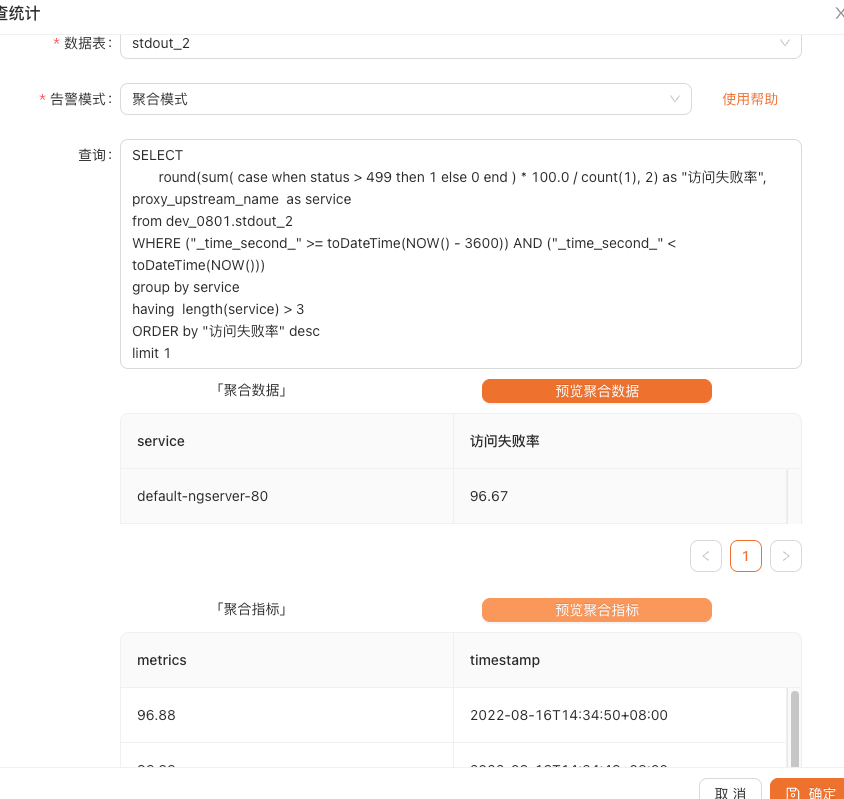
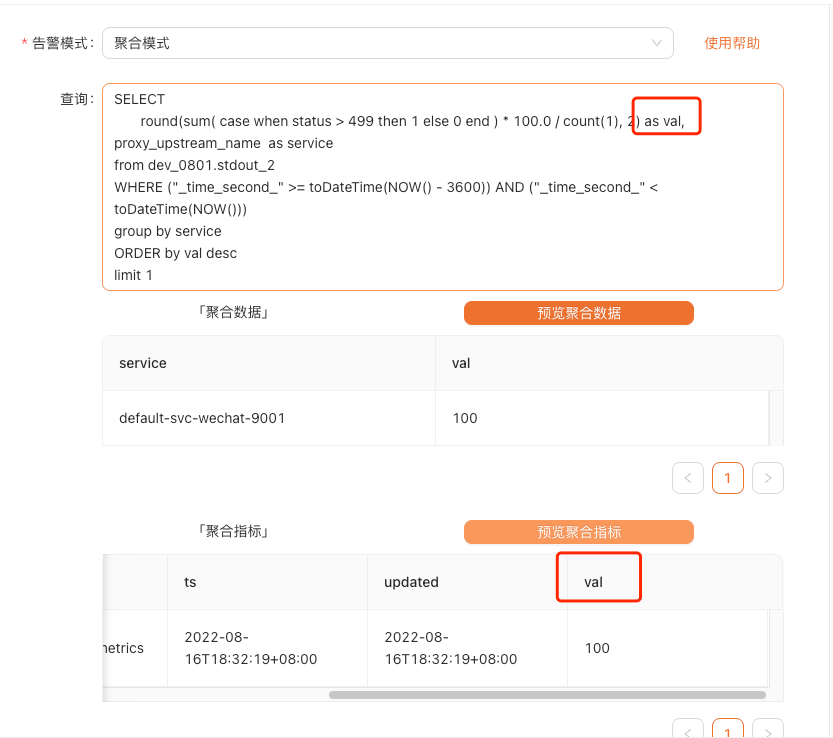
聚合查询物化视图重构

diff --git a/docs/clickvisual/03funcintro/alarm-function-configuration-description.md b/docs/clickvisual/03funcintro/alarm-function-configuration-description.md
@@ -156,19 +156,19 @@ rule_files:
 
 ```mysql
 SELECT 
-       round(sum( case when status > 499 then 1 else 0 end ) * 100.0 / count(1), 2) as "访问失败率",
+       round(sum( case when status > 499 then 1 else 0 end ) * 100.0 / count(1), 2) as val,
        proxy_upstream_name  as service
 from ingress.ingress_stdout
 WHERE ("_time_second_" >= toDateTime(NOW() - 3600)) AND ("_time_second_" < toDateTime(NOW()))
 group by service
 having  length(service) > 3 
-ORDER by "访问失败率" desc    
+ORDER by val desc    
 limit 1
 ```
 
 两个要求：
-1. limit 限制为 1
-2. 指标参数（访问失败率），即监控的参数需要放在 select 作为第一个参数
+1. limit 限制为 1, 否则数据统计可能不准
+2. 预期的告警指标需要使用`as val`
 
 ![img.png](../../images/alarm-agg.png)
 

diff --git a/docs/clickvisual/01quickstart/experience-clickvisual-with-docker-compose.md b/docs/clickvisual/01quickstart/experience-clickvisual-with-docker-compose.md
@@ -28,7 +28,7 @@
 ### 2.3. 创建日志
 
 * 创建数据表：ingress_stdout
-* 选择采集日志的时间类型，采集日志的标示必须位 _time_，类型支持 string 或者 float，在 demo 演示中必须选择  float 类型
+* 选择采集日志的时间类型，采集日志的标示必须位 `_time_`，类型支持 string 或者 float，在 demo 演示中必须选择  float 类型
 * 日志保存时间：7 天
 * Brokers：填入 docker-compose 启动的 Kafka 容器访问地址：kafka:9092
 * Topic：Kafka 中采集日志的 topic name 是 ingress-stdout
